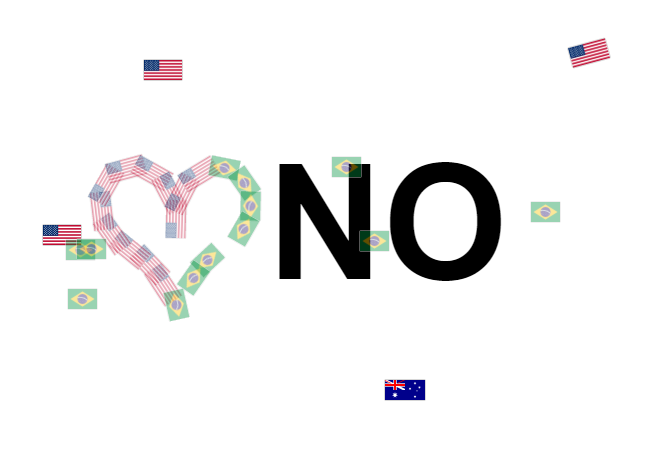
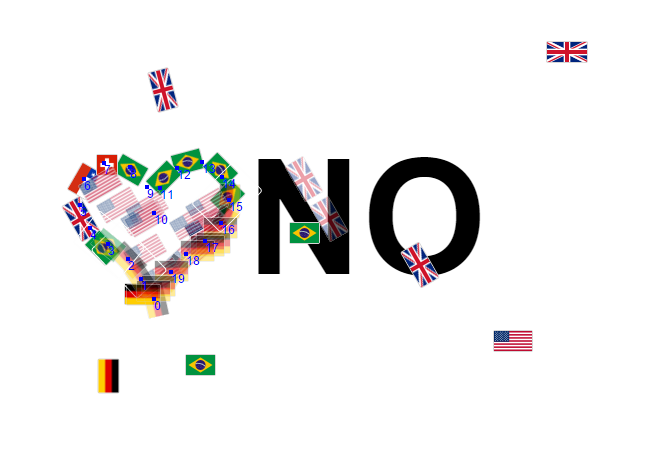
Implemented the shape editor and updated the screenshot. API: added drawLine() and drawRay().

diff --git a/2014/bot.js b/2014/bot.js
@@ -10,8 +10,14 @@ var IICBot = {
     waveProbabiliy: 0.3,
     drawingFronts: 1,
     
-    runTimer: null,
-    listeners: [],
+    editorRayLength: 20, //px
+    editorMarksColor: 'green',
+    _editorOldMouseDown: null,
+    _editorMarks: [],
+    
+    _runTimer: null,
+    _listeners: [],
+    _ignoreRotation: false,
     
     // Normalizes the angle to [0, 2*M_PI].
     _normalizeAngle: function(angle) {
@@ -57,6 +63,90 @@ var IICBot = {
             });
         }
         return points;
+    },
+    
+    // Deletes the shape.
+    clearShape: function() {
+        this.shape.x = this.shape.y = this.shape.a = [];
+    },
+    
+    // Enters the shape editing mode. Left mouse click adds a point, right mouse click removes the last one.
+    startEditor: function() {
+        // The editor is already running...
+        if(this._editorOldMouseDown)
+            return;
+        
+        // Draw the current points.
+        for(var i = 0; i < this.shape.x.length; i++) {
+            var x = this.shape.x[i];
+            var y = this.shape.y[i];
+            var a = this.shape.a[i];
+            this._editorMarks.push([
+                IIC.debugRay(x, y, this.editorRayLength, a, this.editorMarksColor),
+                IIC.debugPoint(x, y, this.editorMarksColor),
+                IIC.debugText(x, y, i, this.editorMarksColor)
+            ]);
+        }
+        
+        // Replace the old click handler.
+        this._editorOldMouseDown = document.onmousedown;
+        document.onmousedown = (function(event) {
+            // Left mouse button adds points.
+            if(event.button === 0) {
+                // Record current position/angle.
+                var p = IIC.getPosition();
+                var a = IIC.getAngle();
+                var i = this.shape.x.push(p.x) - 1;
+                this.shape.y.push(p.y);
+                this.shape.a.push(a);
+                
+                // And draw a point on the screen.
+                this._editorMarks.push([
+                    IIC.debugRay(p.x, p.y, this.editorRayLength, a, this.editorMarksColor),
+                    IIC.debugPoint(p.x, p.y, this.editorMarksColor),
+                    IIC.debugText(p.x, p.y, i, this.editorMarksColor)
+                ]);
+            }
+            
+            // Right mouse button removes points.
+            else if(event.button === 2) {
+                // Remove the point.
+                this.shape.x.pop();
+                this.shape.y.pop();
+                this.shape.a.pop();
+                
+                // And erase marks for it.
+                var oldMarks = this._editorMarks.pop();
+                if(oldMarks) {
+                    for(var i = 0; i < oldMarks.length; i++)
+                        IIC.debugErase(oldMarks[i]);
+                }
+            }
+        }).bind(this);
+        
+        // Turn off rotation in run() to let the user adjust it by himself.
+        this._ignoreRotation = true;
+    },
+    
+    // Exists the shape editing mode.
+    stopEditor: function() {
+        // The editor is already stopped...
+        if(!this._editorOldMouseDown)
+            return;
+        
+        // Put the old click handler back.
+        document.onmousedown = this._editorOldMouseDown;
+        this._editorOldMouseDown = null;
+        
+        // Erase all marks.
+        var oldMarks;
+        while(oldMarks = this._editorMarks.pop()) {
+            for(var i = 0; i < oldMarks.length; i++)
+                IIC.debugErase(oldMarks[i]);
+        }
+        
+        // Turn on rotation in run().
+        this._ignoreRotation = false;
     },
     
     // Sets the shape to a parametric curve. Provided function must take in a value between 0 and 1.
@@ -140,9 +230,9 @@ var IICBot = {
     // Starts the bot.
     run: function() {
         // We just started the cycle: set event listeners.
-        if(!this.runTimer) {
-            this.listeners.push(IIC.onWave(this._clickHandler.bind(this)));
-            this.listeners.push(IIC.onGhost(this._clickHandler.bind(this)));
+        if(!this._runTimer) {
+            this._listeners.push(IIC.onWave(this._clickHandler.bind(this)));
+            this._listeners.push(IIC.onGhost(this._clickHandler.bind(this)));
         }
         
         var time = 0;
@@ -152,7 +242,8 @@ var IICBot = {
         for(var i = 0; i < points.length; i++) {
             var pt = points[i];
             setTimeout(function(x, y, a) {
-                IIC.setAngle(a);
+                if(!this._ignoreRotation)
+                    IIC.setAngle(a);
                 IIC.makeGhost(x, y);
                 if(Math.random() < this.waveProbabiliy)
                     IIC.makeWave(x, y);
@@ -161,19 +252,19 @@ var IICBot = {
         }
         
         // Schedule the next iteration of the loop.
-        this.runTimer = setTimeout(this.run.bind(this), time);
+        this._runTimer = setTimeout(this.run.bind(this), time);
     },
     
     // Stops the bot.
     stop: function() {
         // Cancel the next iteration of the cycle.
-        clearTimeout(this.runTimer);
-        this.runTimer = null;
+        clearTimeout(this._runTimer);
+        this._runTimer = null;
         
         // Remove all event listeners.
-        for(var i = 0; i < this.listeners.length; i++)
-            IIC.removeEventListener(this.listeners[i]);
-        this.listeners = [];
+        var listener;
+        while(listener = this._listeners.pop())
+            IIC.removeEventListener(listener);
     }
 };
 

diff --git a/2014/api-extra.js b/2014/api-extra.js
@@ -39,9 +39,9 @@ IIC.removeEventListener = function(listenerId) {
 
 // Connection
 
-// Returns true if a user with given id is connected.
-IIC.isConnected = function(userId) {
-    return !!others[userId];
+// Returns our own id.
+IIC.getId = function() {
+    return me.id;
 };
 
 // Returns ids of all connected users.
@@ -49,9 +49,16 @@ IIC.getConnectedIds = function() {
     return Object.getOwnPropertyNames(others);
 };
 
-// Returns our own id.
-IIC.getId = function() {
-    return me.id;
+// Returns true if a user with given id is connected.
+IIC.isConnected = function(userId) {
+    return !!others[userId];
+};
+
+// Sets a new connection handler with the following signature: function(userId).
+IIC.onConnection = function(listener) {
+    return this.addEventListener('arrive', function(data) {
+        listener(data.id);
+    });
 };
 
 // Chat
@@ -157,7 +164,7 @@ IIC._addDebugDiv = function(x, y) {
     return { element: element, index: this._debugElements.push(element) - 1 };
 };
 
-// Draws a point at a given location for debugging purposes.
+// Draws a point for debugging purposes.
 IIC.debugPoint = function(x, y, color) {
     var point = this._addDebugDiv(x - this._DEBUG_POINT_SIZE / 2, y - this._DEBUG_POINT_SIZE / 2);
     
@@ -169,13 +176,35 @@ IIC.debugPoint = function(x, y, color) {
     return point.index;
 };
 
-// Draws a string at a given location for debugging purposes.
+// Draws a line between two points for debugging purposes.
+IIC.debugLine = function(x1, y1, x2, y2, color) {
+    var dx = x2 - x1;
+    var dy = y2 - y1;
+    return this.debugRay(x1, y1, Math.sqrt(dx*dx + dy*dy), Math.atan2(dy, dx), color);
+};
+
+// Draws a ray for debugging purposes. Angle must be in radians.
+IIC.debugRay = function(x, y, length, angle, color) {
+    var ray = this._addDebugDiv(x, y);
+    
+    ray.element.style.width = length + 'px';
+    ray.element.style.height = '2px';
+    ray.element.style.transform = 'rotate(' + angle + 'rad)';
+    ray.element.style.transformOrigin = '0% 0%';
+    
+    ray.element.style.backgroundColor = color || 'black';
+    
+    return ray.index;
+};
+
+// Draws a string for debugging purposes.
 IIC.debugText = function(x, y, text, color) {
     var textbox = this._addDebugDiv(x, y);
     textbox.element.innerText = text;
     
     textbox.element.style.fontFamily = 'sans-serif';
     textbox.element.style.fontSize = '12px';
+    textbox.element.style.textShadow = '-1px 0px 0px white, 1px 0px 0px white, 0px -1px 0px white, 0px 1px 0px white';
     
     if(color)
         textbox.element.style.color = color;
@@ -183,7 +212,7 @@ IIC.debugText = function(x, y, text, color) {
     return textbox.index;
 };
 
-// Erases a debugging mark with a given id.
+// Erases a debugging mark with a specified id. Returns true if the mark was successfully erased.
 IIC.debugErase = function(elementId) {
     if(!this._debugElements[elementId])
         return false;
